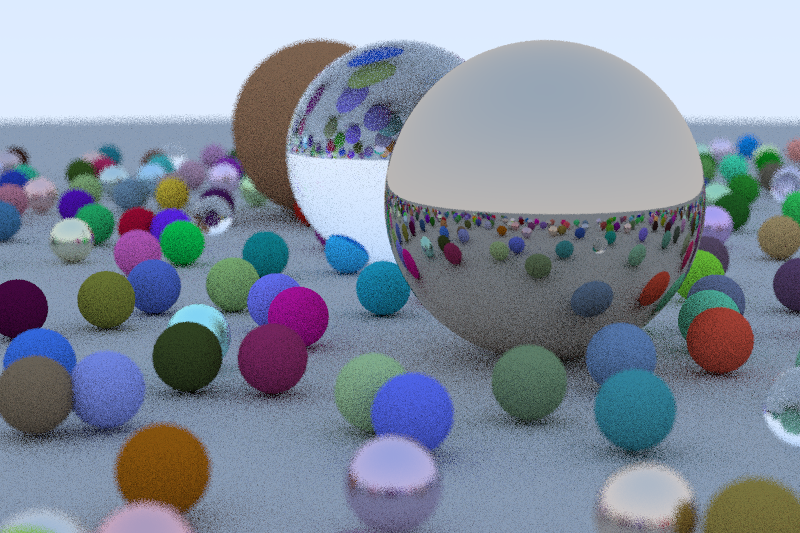
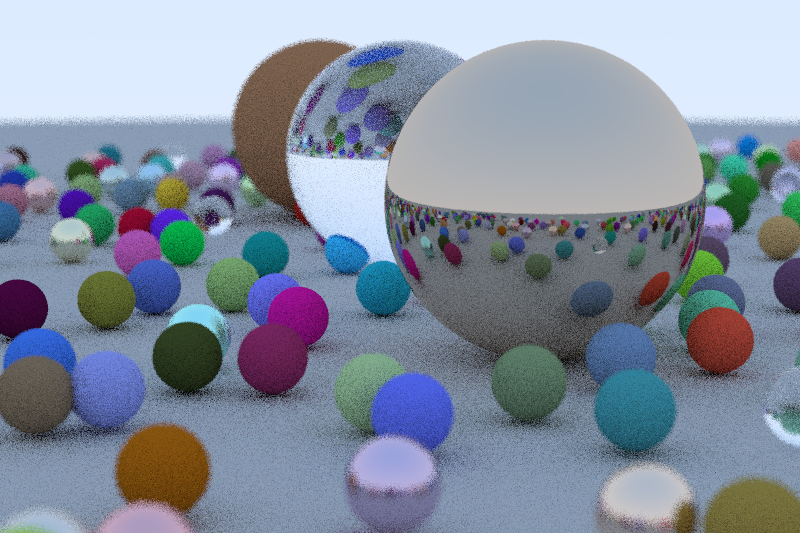
hit spheres simd

diff --git a/src/main.rs b/src/main.rs
@@ -69,8 +69,6 @@ fn sample_color(r: Ray, hit_tree: & dyn Hitable, world: &World, materials: &[Mat
     let mut current_ray = r;
 
     for _bounce in 0..bounces {
-        // if hit_world(current_ray, 0.001, f32::MAX, &bvh.root, bvh, &world, &mut hit) {
-        // if hit_spheres(world, 0, world.sphere_x.len(), current_ray, 0.001, f32::MAX, &mut hit) {
         if hit_tree.hit(current_ray, 0.001, f32::MAX, world, &mut hit) {
             hit.normal = normalized(hit.normal); // The book makes a point about unit length normals but then doesnt enforce it.
             let mat_id = world.material_ids[hit.obj_id] as usize;
@@ -190,37 +188,43 @@ fn push_sphere(objects: &mut Vec<Sphere>, center: Vec3, radius: f32, mat: usize)
     });
 }
 
-fn generate_world_data(objects: &mut Vec<Sphere>, materials: &mut Vec<Material>) {
+fn add_sphere(objects: &mut Vec<Sphere>, materials: &mut Vec<Material>, a: i32, b: i32) {
+    let material_select : f32 = rand_f32();
+    let rand_a : f32 = rand_f32();
+    let rand_b : f32 = rand_f32();
+    let center = vec3![(a as f32) + 0.9 * rand_a, 0.2, (b as f32) + 0.9 * rand_b];
 
+    if length(center - vec3![4.0, 0.2, 0.0]) > 0.9 {
+        if material_select < 0.8 {
+            let albedo = Vec3::random() * Vec3::random();
+            materials.push(Material::Lambert(Lambert{ albedo }));
+            push_sphere(objects, center, 0.2, materials.len() - 1);
+        } 
+        else if material_select < 0.96 {
+            let albedo = Vec3::random_range(0.5, 1.0);
+            let rough = rand_in_range(0.0, 0.5);
+            materials.push(Material::Metal(Metal::new(albedo, rough)));
+            push_sphere(objects, center, 0.2, materials.len() - 1);
+        } 
+        else {
+            materials.push(Material::Dielectric(Dielectric{ idx_of_refraction: 1.5 }));
+            push_sphere(objects, center, 0.2, materials.len() - 1);
+        }
+    }
+}
+
+fn generate_world_data(objects: &mut Vec<Sphere>, materials: &mut Vec<Material>) {
     materials.push(Material::Lambert(Lambert{ albedo: vec3![0.5, 0.5, 0.5] }));
     push_sphere(objects, vec3![0.0, -1000.0, 0.0], 1000.0, materials.len() - 1);
 
     for a in -11..11 {
         for b in -11..11 {
-            let material_select : f32 = rand_f32();
-            let rand_a : f32 = rand_f32();
-            let rand_b : f32 = rand_f32();
-            let center = vec3![(a as f32) + 0.9 * rand_a, 0.2, (b as f32) + 0.9 * rand_b];
-            
-            if length(center - vec3![4.0, 0.2, 0.0]) > 0.9 {
-                if material_select < 0.8 {
-                    let albedo = Vec3::random() * Vec3::random();
-                    materials.push(Material::Lambert(Lambert{ albedo }));
-                    push_sphere(objects, center, 0.2, materials.len() - 1);
-                } 
-                else if material_select < 0.96 {
-                    let albedo = Vec3::random_range(0.5, 1.0);
-                    let rough = rand_in_range(0.0, 0.5);
-                    materials.push(Material::Metal(Metal::new(albedo, rough)));
-                    push_sphere(objects, center, 0.2, materials.len() - 1);
-                } 
-                else {
-                    materials.push(Material::Dielectric(Dielectric{ idx_of_refraction: 1.5 }));
-                    push_sphere(objects, center, 0.2, materials.len() - 1);
-                }
-            }
+            add_sphere(objects, materials, a, b);
         }
     }
+
+    add_sphere(objects, materials, 1, 12);
+    add_sphere(objects, materials, 12, 1);
 
     materials.push(Material::Dielectric(Dielectric{ idx_of_refraction: 1.5 }));
     push_sphere(objects, vec3![0.0, 1.0, 0.0], 1.0, materials.len() - 1);
@@ -230,6 +234,9 @@ fn generate_world_data(objects: &mut Vec<Sphere>, materials: &mut Vec<Material>)
     
     materials.push(Material::Metal(Metal{ albedo: vec3![0.7, 0.6, 0.5], roughness: 0.0 }));
     push_sphere(objects, vec3![4.0, 1.0, 0.0], 1.0, materials.len() - 1);
+
+    assert!(objects.len() == materials.len());
+    assert!((objects.len() % spatial::SIMD_WIDTH) == 0);
 }
 
 struct RGBImage {

diff --git a/src/spatial.rs b/src/spatial.rs
@@ -14,12 +14,12 @@ struct PackedIdx {
 /// A QBVHNode has up to four children that it stores the bounds of.
 /// This allows fast intersection testing by testing all 4 at once through SIMD.
 struct QBVHNode {
-    bb_min_x: [f32; 4],
-    bb_min_y: [f32; 4],
-    bb_min_z: [f32; 4],
-    bb_max_x: [f32; 4],
-    bb_max_y: [f32; 4],
-    bb_max_z: [f32; 4],
+    bb_min_x: [f32;4],
+    bb_min_y: [f32;4],
+    bb_min_z: [f32;4],
+    bb_max_x: [f32;4],
+    bb_max_y: [f32;4],
+    bb_max_z: [f32;4],
     children: [PackedIdx; 4],
 }
 
@@ -162,6 +162,8 @@ impl QBVHNode {
 pub const SIMD_WIDTH: usize = 4;
 
 fn hit_simd(world: &World, start: usize, len: usize, r: Ray, t_min: f32, t_max: f32, out_hit: &mut HitRecord) -> bool {
+    assert!((len % SIMD_WIDTH) == 0);
+    
     let ro_x = f32x4::splat(r.origin.x);
     let ro_y = f32x4::splat(r.origin.y);
     let ro_z = f32x4::splat(r.origin.z);
@@ -209,7 +211,8 @@ fn hit_simd(world: &World, start: usize, len: usize, r: Ray, t_min: f32, t_max: 
             let mask = u32x4::and(u32x4::and(discr_gt_0, f32x4::cmp_gt(best_t, t_min4)), f32x4::cmp_lt(best_t, closest_t));
             
             // if hit, take it
-            id = i32x4::blendv(cur_id, id, mask);
+
+            id = i32x4::blendv(id, cur_id, mask);
             closest_t = f32x4::blendv(best_t, closest_t, mask);
         }
         
@@ -220,7 +223,7 @@ fn hit_simd(world: &World, start: usize, len: usize, r: Ray, t_min: f32, t_max: 
     let min_t = f32x4::hmin(closest_t);
     if min_t < t_max { 
         let min_t_channel = f32x4::cmp_eq(closest_t, f32x4::splat(min_t));
-        let min_t_mask = u32x4::movemask(min_t_channel);
+        let min_t_mask = f32x4::movemask(min_t_channel);
         if min_t_mask != 0 {
             let mut id_scalar : [i32;4] = [0, 0, 0, 0];
             let mut closest_t_scalar : [f32;4] = [0.0, 0.0, 0.0, 0.0];
@@ -312,10 +315,11 @@ impl QBVH {
     fn hit_node(child_idx: usize, hit_any_node: &mut bool, r: Ray, t_min: f32, closest_t: &mut f32, current_node: &QBVHNode, bvh: &QBVH, world: &World, out_hit: &mut HitRecord) {
         let child = &current_node.children[child_idx];
         assert!(!child.is_empty_leaf());
-
+  
         if child.is_leaf() {
             let (c_idx, c_count) = child.leaf_get_idx_count();
-            if hit(world, c_idx as usize, c_count as usize, r, t_min, *closest_t, out_hit) {
+            // if hit(world, c_idx as usize, c_count as usize, r, t_min, *closest_t, out_hit) {
+            if hit_simd(world, c_idx as usize, c_count as usize, r, t_min, *closest_t, out_hit) {
                 *hit_any_node = true;
                 *closest_t = out_hit.t;
             }

diff --git a/src/simd/x86.rs b/src/simd/x86.rs
@@ -86,10 +86,9 @@ impl f32x4 {
     }}
     
     #[inline(always)]
-    pub fn cmp_eq(a: f32x4, b: f32x4) -> u32x4 {
+    pub fn cmp_eq(a: f32x4, b: f32x4) -> f32x4 {
     unsafe {
-        u32x4 { m: _mm_castps_si128(
-            _mm_cmpeq_ps(a.m, b.m)) }
+        f32x4 { m: _mm_cmpeq_ps(a.m, b.m) }
     }}
    
     #[inline(always)]
@@ -165,6 +164,13 @@ impl f32x4 {
     unsafe {
         _mm_storeu_ps(mem.as_mut_ptr(), v.m)
     }}
+
+    #[inline(always)]
+    pub fn movemask(v: f32x4) -> u32 {
+    unsafe {
+        _mm_movemask_ps(v.m) as u32
+    }
+    }
 }
 
 impl i32x4 {
